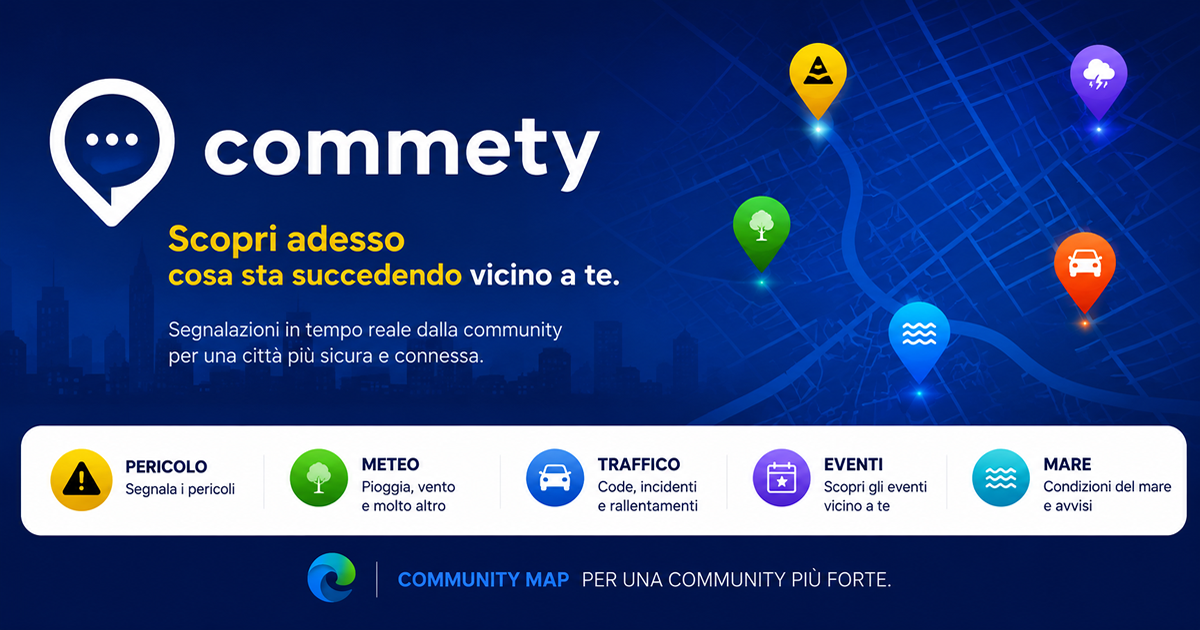
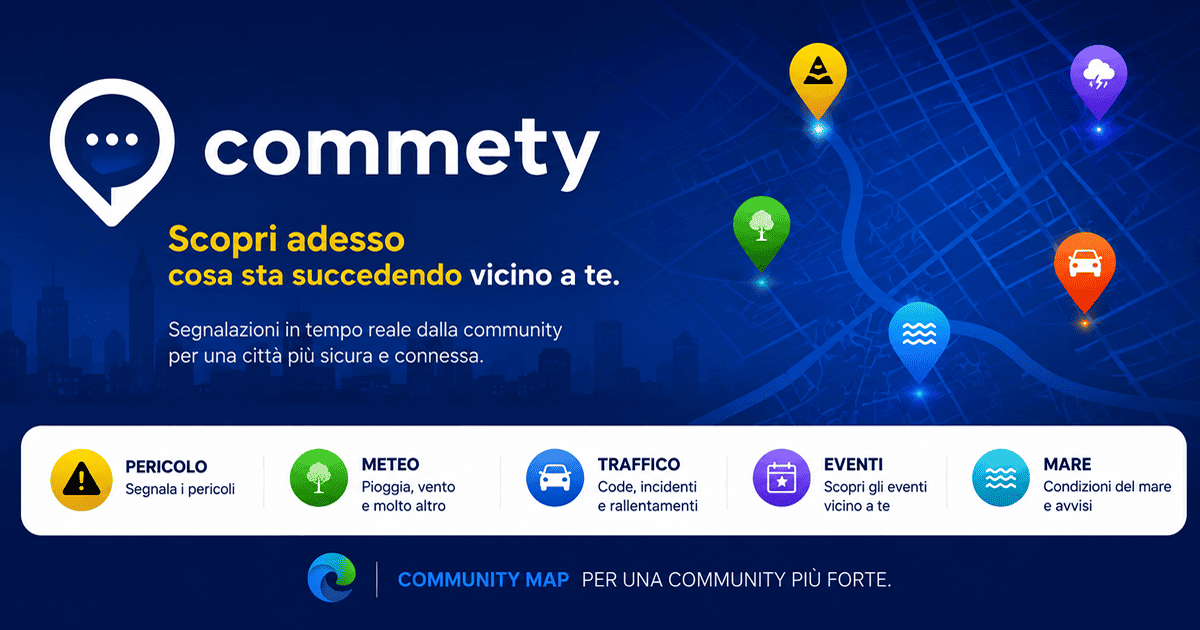
Ottimizza la social card Open Graph e utilizza URL assoluti per le immagini con nuova card

diff --git a/app/layout.tsx b/app/layout.tsx
@@ -35,13 +35,13 @@ export const metadata: Metadata = {
     type: "website",
 
     images: [
-      {
-        url: "/og-image.png",
-        width: 1200,
-        height: 630,
-        alt: "Commety",
-      },
-    ],
+  {
+    url: `${appUrl}/og-image.png`,
+    width: 1200,
+    height: 630,
+    alt: "Commety",
+  },
+],
   },
 
   twitter: {